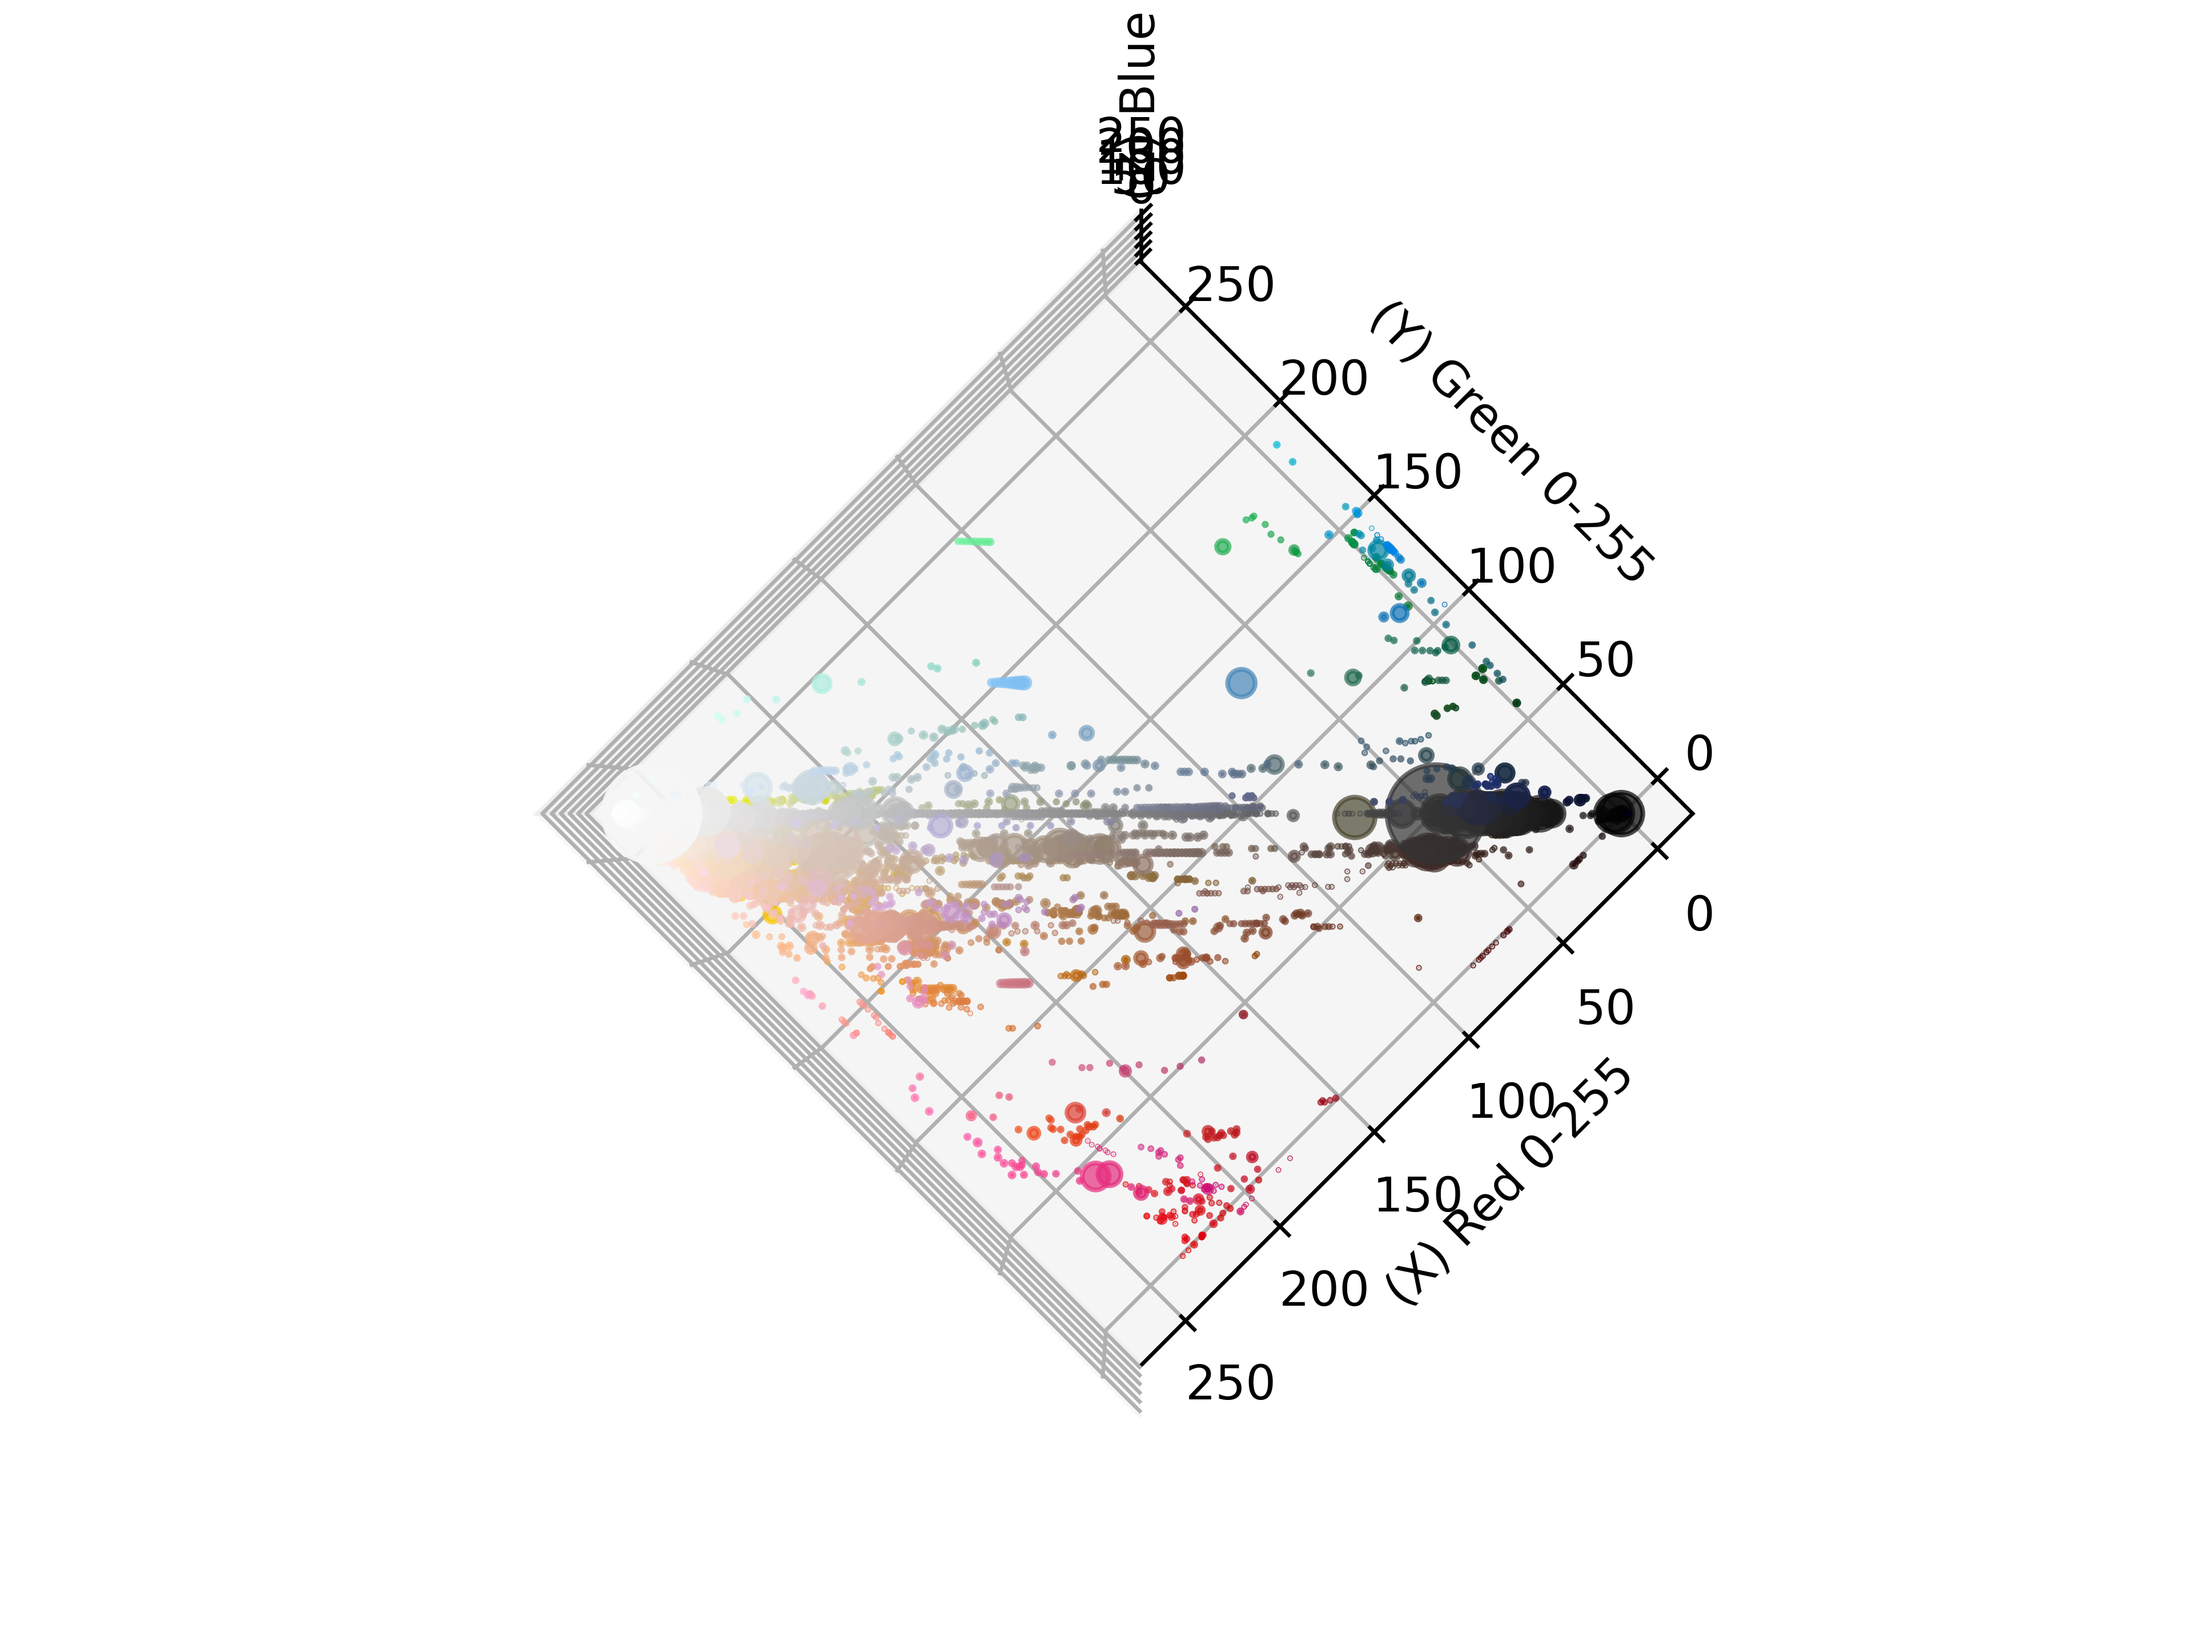
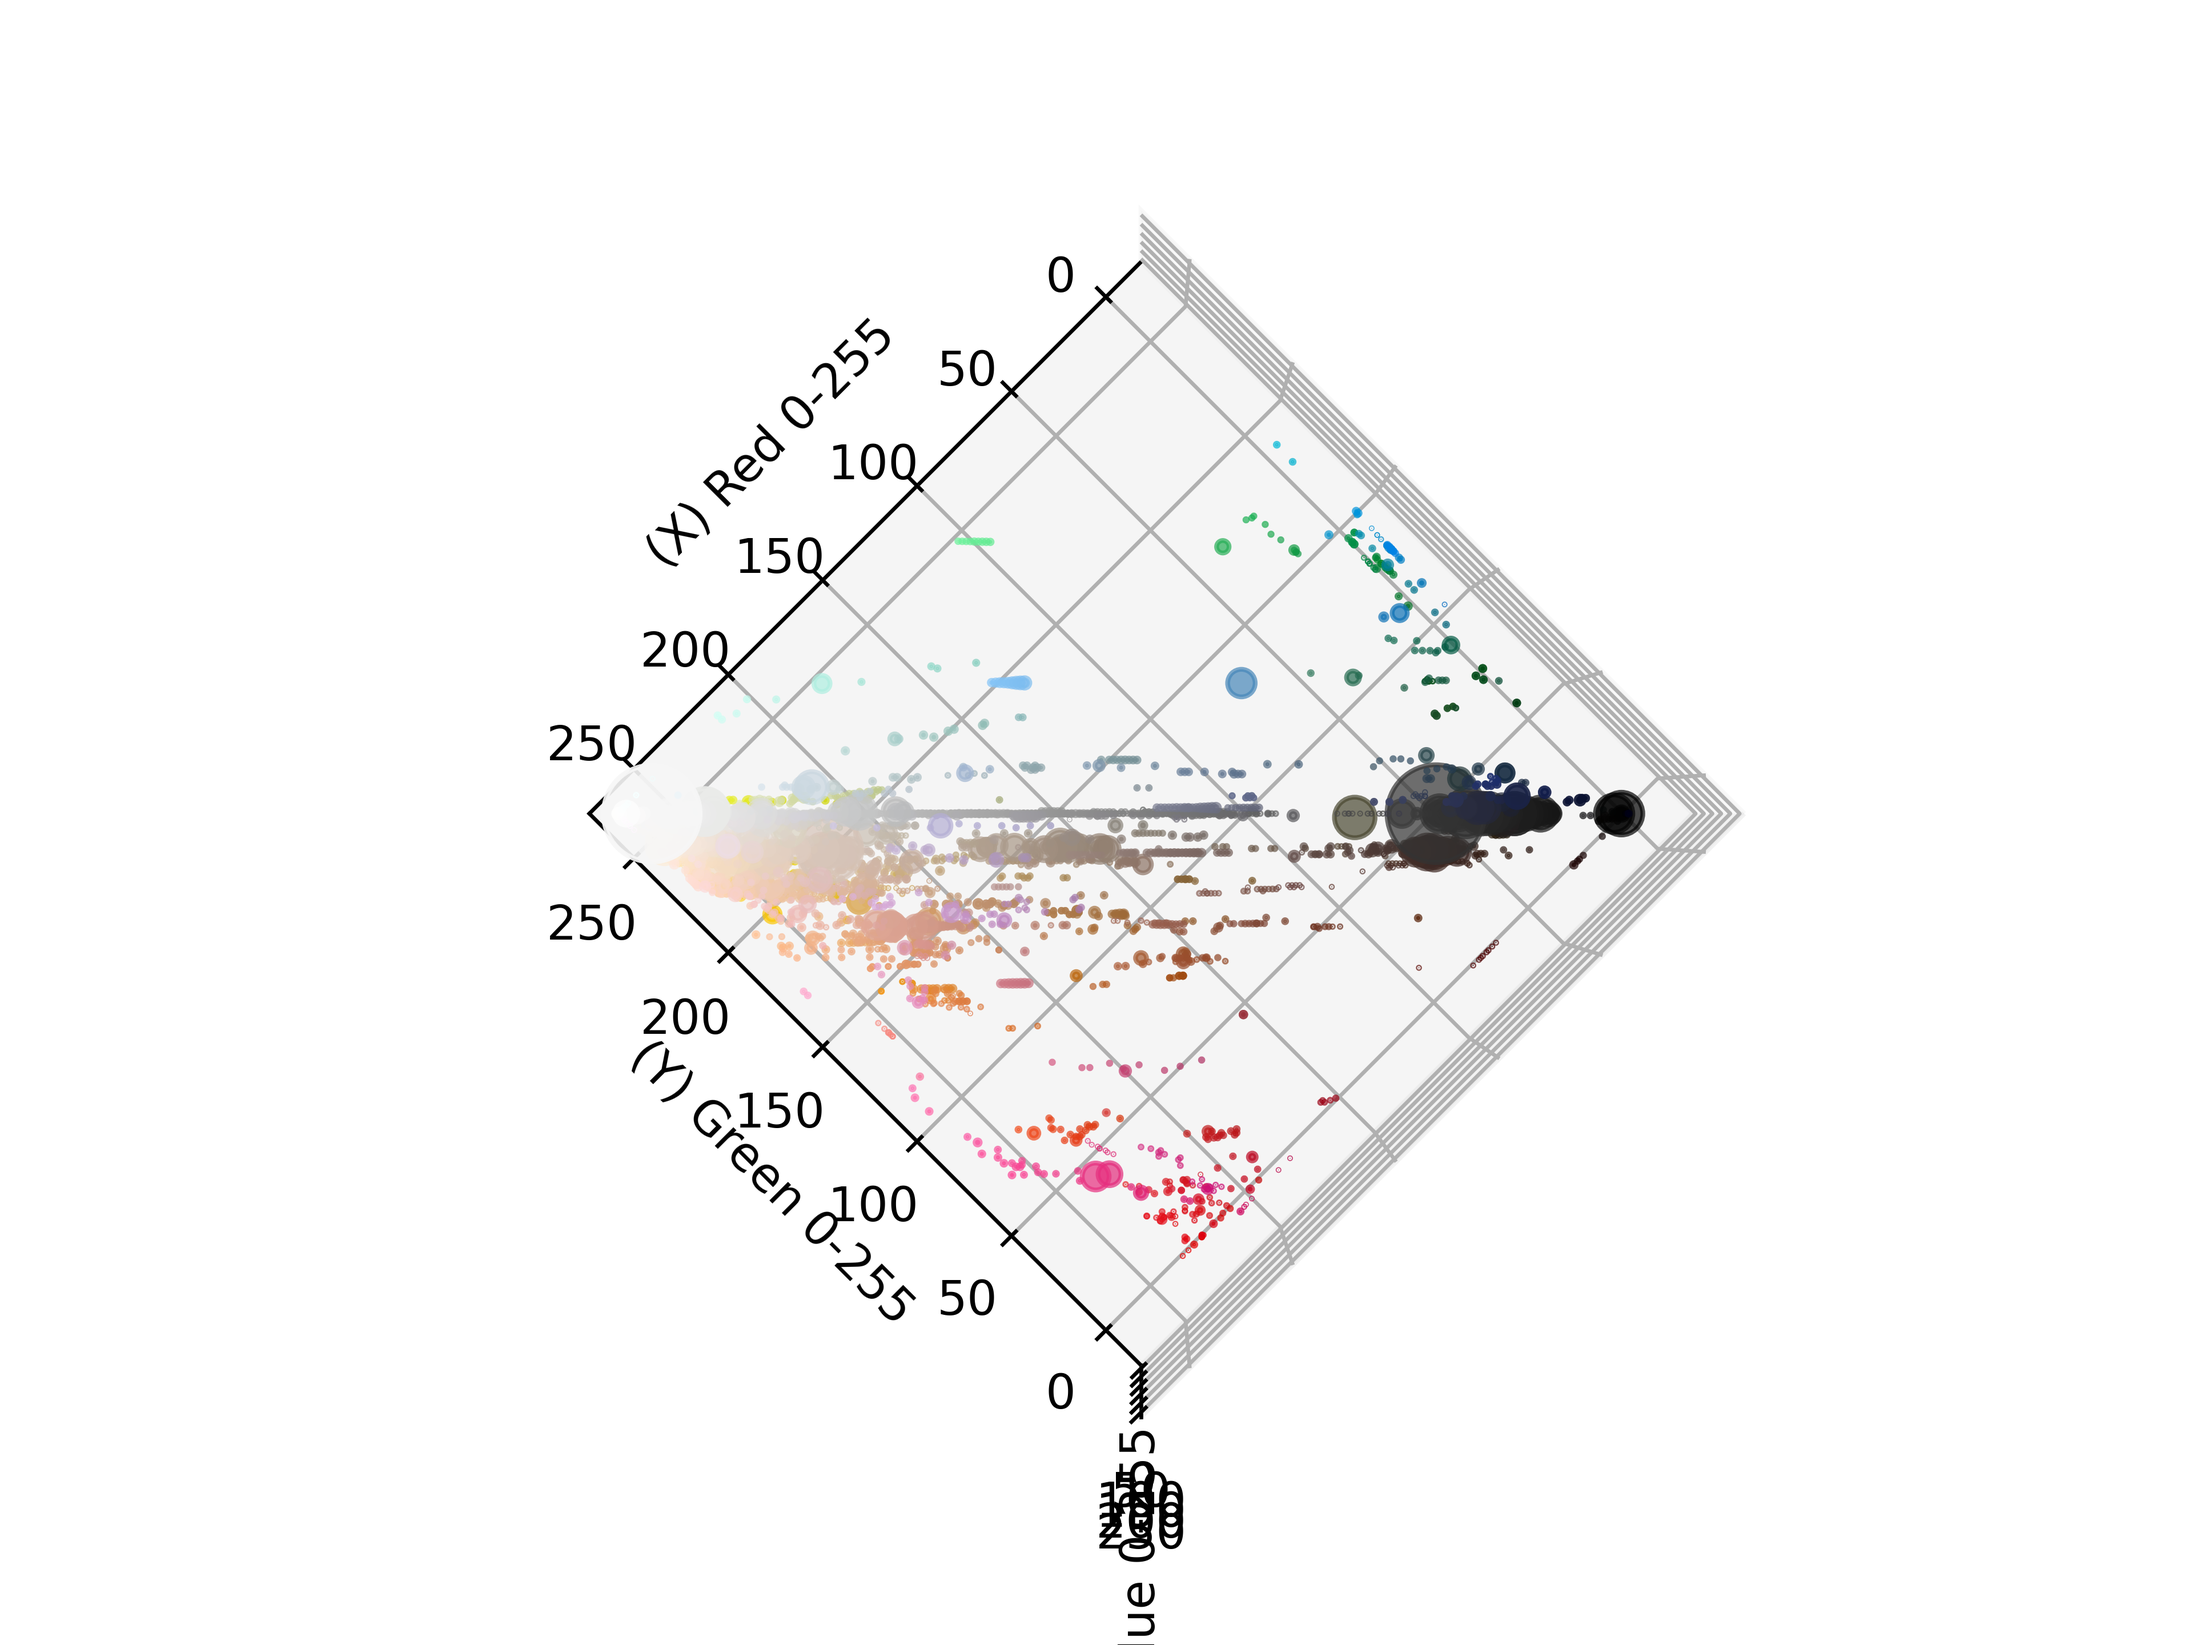
new graph being added.

diff --git a/Thesis.py b/Thesis.py
@@ -15,6 +15,9 @@ from mpl_toolkits.mplot3d import Axes3D
 import numpy as np
 import matplotlib.pyplot as plt
 
+import numpy as np
+from scipy import signal
+
 import math
 import random
 import time
@@ -112,8 +115,29 @@ class ImageWebScrapper:
                     print(f"Image count reached: {self.image_limit}")
                     return True
 
+    def fetch_chanel_pages(self, website):
+        count = 0
+        website_images = list()
+        page_dne = True
+
+        req = requests.get(website, headers=self.website_headers)
+        print(req.status_code)
+
+        soup = BeautifulSoup(req.text, "html.parser", from_encoding="gzip")
+        website_items = soup.find_all('div', {"class": 'product-grid__item js-product-edito fs-gridelement'})
+
+        for images_in_website_items in website_items:
+            images = images_in_website_items.find_all('picture', {"class": 'fs-element--inline'})
+            for image in images:
+                found_image_size = (str(image).rfind("1092w"))
+                if found_image_size != -1:
+                    print("FOUND", type(image), str(image)[:found_image_size])
+                break
+            break
+
+        return website_images
+
     def fetch_louis_vuitton_pages(self, website):
-        print("Running fetch_louis_vuitton_pages")
         count = 0
         louis_vuitton_images_pages = list()
         page_dne = True
@@ -173,6 +197,40 @@ class ImageAnalysis:
         hex_value = ('#%02x%02x%02x' % (r, g, b))
         return hex_value
 
+    # TODO: working on this currently.
+    def graph_rgb_spectrogram(self, rgb_with_frequency):
+        rgb_colors, frequencies = zip(*rgb_with_frequency)
+        r_values = [color[0] for color in rgb_colors]
+        r_colors = [(color[0], 0, 0) for color in rgb_colors]
+        g_values = [color[1] for color in rgb_colors]
+        g_colors = [(color[0], 0, 0) for color in rgb_colors]
+        b_values = [color[2] for color in rgb_colors]
+        b_colors = [(color[0], 0, 0) for color in rgb_colors]
+
+
+        # Normalizing frequencies for height
+        normalized_frequencies = np.array(frequencies) / max(frequencies)
+
+        # Creating the figure and axis
+        fig, ax = plt.subplots()
+
+        # Plotting red, green, and blue separately
+        ax.barh(np.arange(len(rgb_colors)), r_values, color=(1, 0, 0, 0.7), height=normalized_frequencies, label='Red')
+        ax.barh(np.arange(len(rgb_colors)), g_values, color=(0, 1, 0, 0.7), height=normalized_frequencies,
+                label='Green', left=r_values)
+        ax.barh(np.arange(len(rgb_colors)), b_values, color=(0, 0, 1, 0.7), height=normalized_frequencies, label='Blue',
+                left=np.array(r_values) + np.array(g_values))
+
+        # Adding labels and legend
+        ax.set_yticks(np.arange(len(rgb_colors)))
+        ax.set_yticklabels([f'Frequency {freq}' for freq in frequencies])
+        ax.set_xlabel('RGB Values')
+        ax.set_title('RGB Spectrogram')
+        ax.legend()
+
+        # Display the plot
+        plt.show()
+
     def graph_3d_rgb_frequency(self, rgb_with_frequency):
         rgb_colors, frequencies = zip(*rgb_with_frequency)
         r_values = [color[0] for color in rgb_colors]
@@ -188,7 +246,8 @@ class ImageAnalysis:
         max_size = 199
         color_sizes = [(num - 1) / max_size for num in frequencies]
 
-        ax.scatter(r_values, g_values, b_values, c=hex_colors, marker='o', s=[color_size for color_size in color_sizes], alpha=0.7)
+        ax.scatter(r_values, g_values, b_values, c=hex_colors, marker='o', s=[color_size for color_size in color_sizes],
+                   alpha=0.7)
 
         ax.set_xlabel('(X) Red 0-255')
         ax.set_ylabel('(Y) Green 0-255')
@@ -208,8 +267,9 @@ class ImageAnalysis:
         save_location = os.path.join(self.readme_images, 'rgb_scatter_plot_3.png')
         plt.savefig(save_location, dpi=600)
 
+        name = (os.path.dirname(self.directory))
+        plt.title((name + ": RGB Scatter Plot"))
         plt.show()
-
 
     def show_image(self, image_path):
         if image_path:
@@ -274,6 +334,8 @@ class ImageAnalysis:
                 by_color[pixel] += 1
 
         return by_color
+
+
 # In[35]:
 
 
@@ -283,12 +345,25 @@ class Facade:
         self.directory = os.getcwd()
         self.image_directory = os.path.join(self.directory, "images")
         #       calling necessary classes
-        self.image_web_scrapper = ImageWebScrapper(self.directory, image_limit = 1000, website_catacory_limit = 30)
+        self.image_web_scrapper = ImageWebScrapper(self.directory, image_limit=1000, website_catacory_limit=30)
         self.image_file_manager = ImageFileManager(self.directory)
         self.image_analysis = ImageAnalysis(self.directory)
 
     def download_website(self, url, directory_special_name=""):
-        pages = self.image_web_scrapper.fetch_louis_vuitton_pages(url)
+        # Gets a list of image urls within the website.
+        domain = ('.'.join((urlparse(url).netloc).split('.')[-2:]))
+
+        print(f"Scrapping {domain} for images.")
+        if domain == "louisvuitton.com":
+            pages = self.image_web_scrapper.fetch_louis_vuitton_pages(url)
+        elif domain == "chanel.com":
+            pages = self.image_web_scrapper.fetch_chanel_pages(url)
+            return True
+        else:
+            print("Program has not been designed yet for this website.")
+            return None
+
+        # Iterating through each page to download the image.
         for page in pages:
             self.image_web_scrapper.download_images(page, directory_special_name, amount_of_pages=len(pages))
 
@@ -299,7 +374,7 @@ class Facade:
         self.image_analysis.plot_rgb_scatter_with_frequency(most_common_colors, file_path)
 
     def analyze_all_images(self, analyze_directory="louisvuitton.com"):
-        # directory to analyze
+        # directory to analyze`
         louis_vuitton_dir = os.path.join(self.image_directory, analyze_directory)
         files = self.image_file_manager.get_files_list(louis_vuitton_dir)
 
@@ -313,7 +388,8 @@ class Facade:
             all_images_rgb_count += most_common_colors
 
         # self.image_analysis.plot_rgb_scatter_with_frequency(all_images_rgb_count)
-        self.image_analysis.graph_3d_rgb_frequency(all_images_rgb_count)
+        # self.image_analysis.graph_3d_rgb_frequency(all_images_rgb_count)
+        self.image_analysis.graph_rgb_spectrogram(all_images_rgb_count)
 
 
 # In[34]:
@@ -322,6 +398,7 @@ class Facade:
 if __name__ == "__main__":
     facade = Facade()
     website_url = "https://eu.louisvuitton.com/eng-e1/women/handbags/all-handbags/_/N-tfr7qdp"
+    website_url = "https://www.chanel.com/gb/fashion/handbags/c/1x1x1x4/hobo-bags/"
 
     # facade.download_website(website_url, directory_special_name="-handbags")
     facade.analyze_all_images("louisvuitton.com-handbags")
